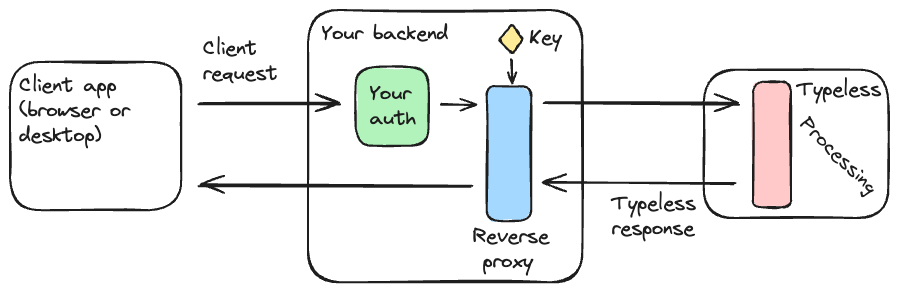
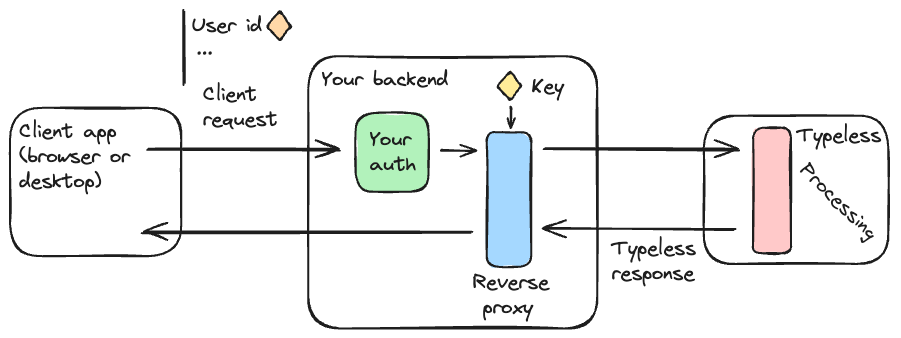
added domain to wsapi doc

diff --git a/docs/stt/ws_api.md b/docs/stt/ws_api.md
@@ -36,12 +36,15 @@ Client should send a stringified JSON object containing:
 
 - `language`: The language of the transcription. See [Supported languages](/docs/stt/languages) for a list of supported languages.
 - `manual_punctuation`: Boolean. If set to true, user will be able to dictate punctuation marks. If set to false, punctuation marks will be automatically added to the transcription.
+- `end_user_id`: A unique identifier for the end-user. See [Authentication](/docs/stt/authentif) for more information.
 - `hotwords` (optional): Comma-separated list of hotwords to be detected in the audio file.
+- `domain` (optional): Medical specialty group of the end-user. See [Supported languages](/docs/stt/languages) for a list of supported specialty groups for each language. If the specialty of the end-user is not in the supported groups, do not specify this field and the transcription will be performed without domain-specific vocabulary.
 
 ```javascript
 const initialMessage = JSON.stringify({
   language: "fr",
   manual_punctuation: false,
+  end_user_id: "1234567890",
   hotwords: "hotword1,hotword2",
 });
 audioSocket.onopen = () => {
@@ -56,7 +59,7 @@ Audio should be recorded as a **.wav** file sampled at **16khz**, **mono** (one 
 Audio message should be a stringified JSON object containing:
 
 - `audio`: The audio file as a base64 string.
-- `uid` (optional): A unique identifier for the audio request (returned in the corresponding response, if any).
+- `uid`: A unique identifier for the audio request (returned in the corresponding response).
 
 ```javascript
 const blobToBase64 = (blob) => {

diff --git a/docs/stt/authentif.md b/docs/stt/authentif.md
@@ -8,6 +8,8 @@ sidebar_position: 5
 
 Typeless STT APIs uses API keys to authenticate requests. You have received or will receive an API key from us. This API key will be shared between all your users. You should use the API key to make requests to the API from your backend.
 
+We also expect an **end-user unique identifier** to be sent with each request. For privacy purposes, we advise you to use a unique identifier that is not directly linked to the user's identity (e.g. a UUID). We expect you to keep track of the mapping between the end-user unique identifier and the user's identity.
+
 ## Authentication flow
 
 ![Authentication](/img/auth.png)
@@ -22,7 +24,7 @@ Typeless STT APIs uses API keys to authenticate requests. You have received or w
 
 - **Reverse proxy**:
 
-  If you use the API key in your backend, we advise you to use a reverse proxy (such as **Nginx**):
+  We advise you to use a reverse proxy (such as **Nginx**):
 
   - The reverse proxy will be the only one to know the API key.
   - It will forward the requests from the frontend to the API.

diff --git a/docs/stt/languages.md b/docs/stt/languages.md
@@ -7,3 +7,14 @@ sidebar_position: 2
 - French: `fr`
 
 We are currently working on adding support for Italian, German and English.
+
+## Supported medical specialty groups
+
+- French:
+  - `anesthésie-réanimation`
+  - `cardiologie-vasculaire`
+  - `gynécologie`
+  - `orthopédie`
+  - `psychiatrie`
+
+We are currently working on adding support for other medical specialty groups.

diff --git a/docs/stt/sdks/cpp.md b/docs/stt/sdks/cpp.md
@@ -51,7 +51,7 @@ g++ ./STTTranscription.o ./main.o -o client \
 ## Run
 
 ```bash
-./client <URL> <LANGUAGE> <MANUAL_PUNCTUATION> (0|1)
+./client <URL> <LANGUAGE> <MANUAL_PUNCTUATION> (0|1) <DOMAIN>
 
-# Example: ./client wss://40.114.149.255/real-time-transcription/ fr 0
+# Example: ./client wss://40.114.149.255/real-time-transcription/ fr 0 gynécologie
 ```
